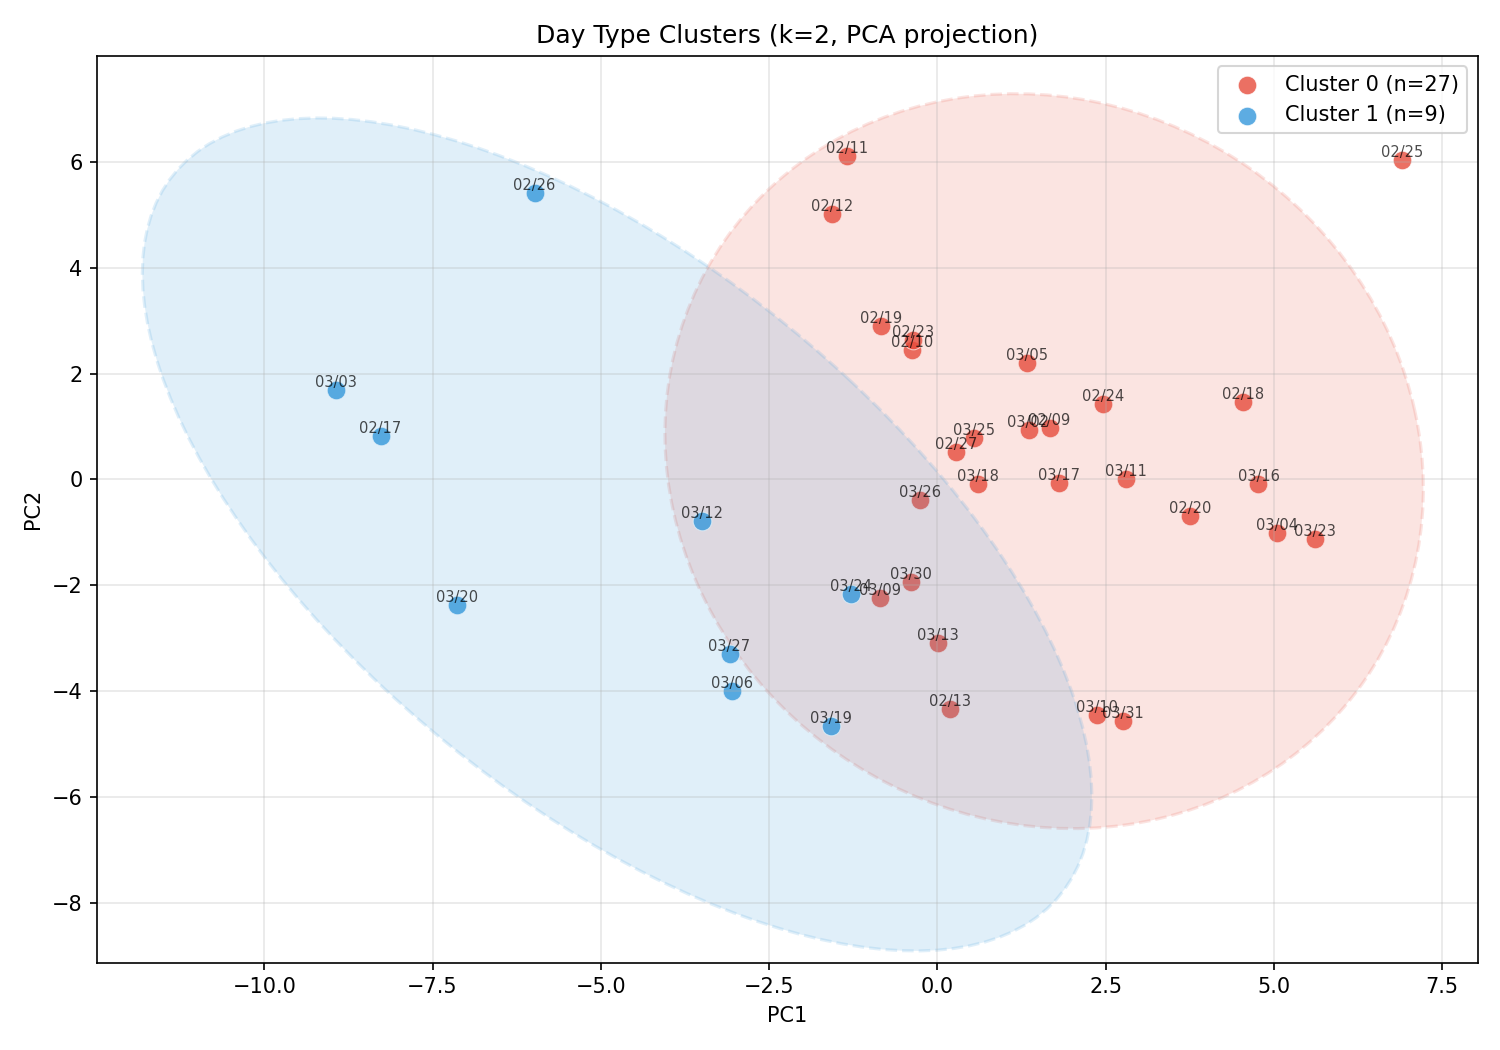
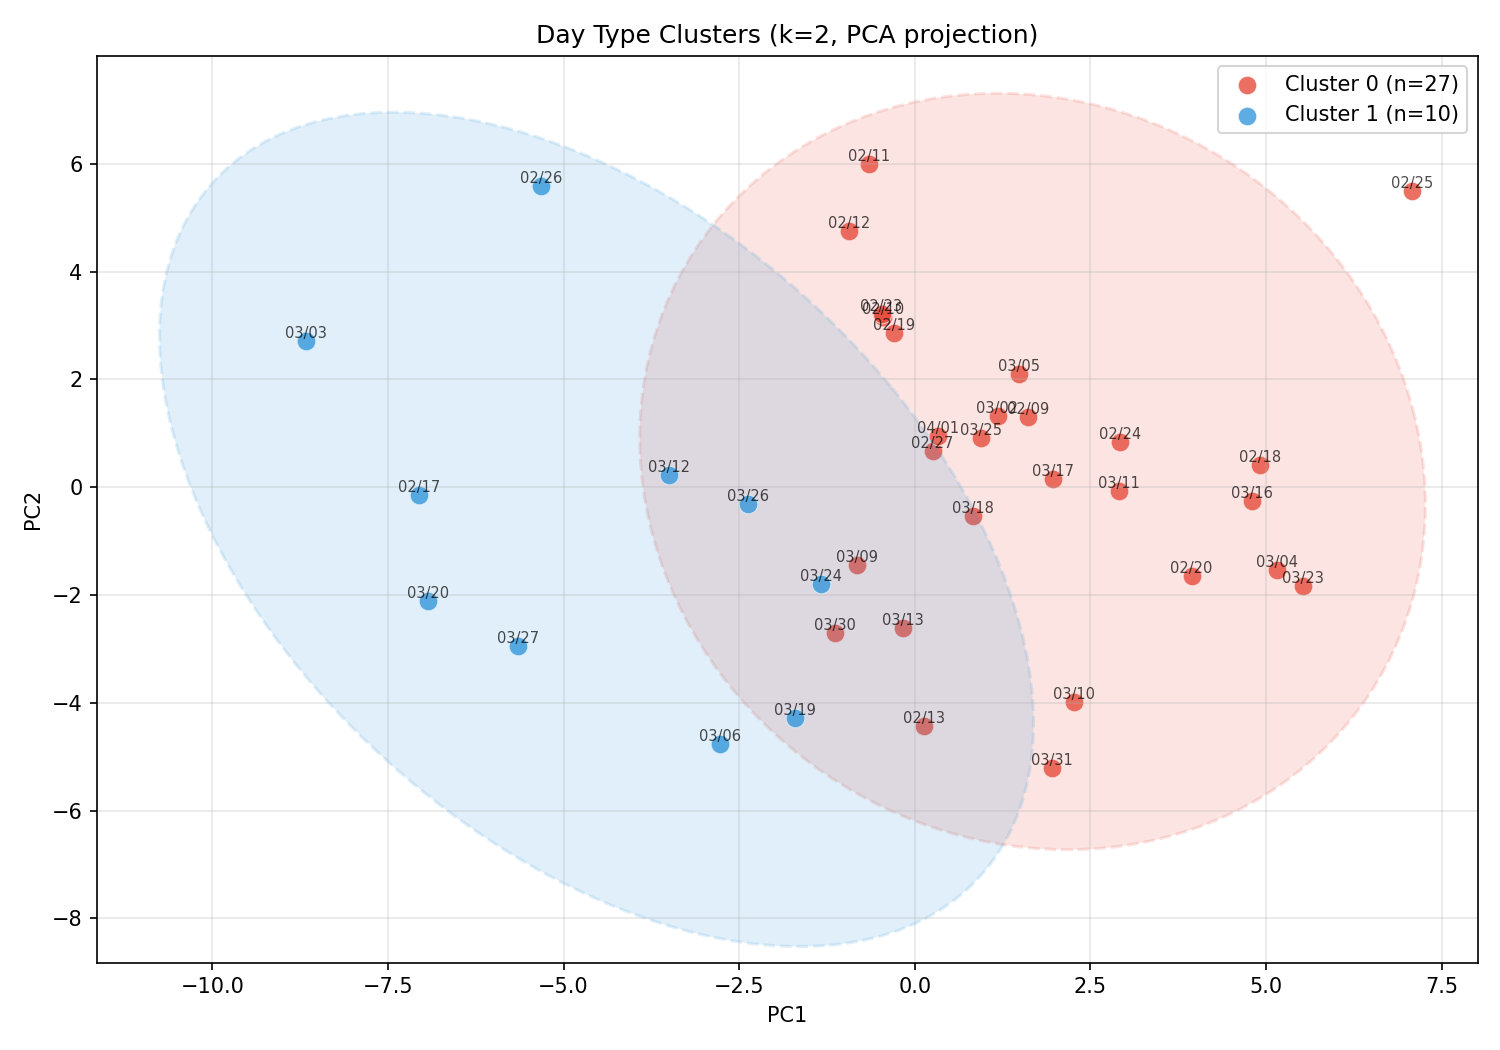
chore: regenerate ML plots and experiments after ETF tide data restore
Backfilled spy_etf_tide, qqq_etf_tide, and zero_dte_index flow data
for 2026-03-25 through 2026-03-31, then rebuilt training_features
via build-features?backfill=true. Feature completeness restored from
0.78 to 0.99 for all affected dates.

Re-ran full pipeline (make all + make early):
- EDA: SPY/QQQ ETF Tide accuracy up to 60% (was 56%), zero_dte_ncp_t1
  now appears in top range predictors
- Clustering: stability improved from 83% to 95%, permutation p from
  0.180 to 0.120
- Phase 2 early: 30 usable days (was 25), 10 walk-forward predictions
  (was 5). LogReg/RF/NB now achieve PCS F1=0.40 while XGBoost gets 0.00
- 5 plots regenerated with fuller dataset

diff --git a/ml/PHASE-2-STRUCTURE-CLASSIFICATION.md b/ml/PHASE-2-STRUCTURE-CLASSIFICATION.md
@@ -24,16 +24,16 @@ This is a **pre-analysis prior**, not a trading signal. It tells you "historical
 
 ### What we have
 
-| Metric                                 | Count                                 | Notes                                     |
-| -------------------------------------- | ------------------------------------- | ----------------------------------------- |
-| Days with features + labels + outcomes | 34                                    | Minimum for Phase 2 is 60-80              |
-| Days with completeness >= 80%          | 25                                    | Used for walk-forward validation          |
-| CCS labels                             | 19 (17 correct, 2 wrong)              | 56% of labels — majority class            |
-| PCS labels                             | 11 (11 correct, 0 wrong)              | 32% of labels — perfect so far            |
-| IC labels                              | 4 (3 correct, 1 wrong)                | 12% of labels — sparse                    |
-| SIT OUT labels                         | 0                                     | Not yet observed                          |
-| Feature completeness (labeled days)    | 95-98% for recent, 54-74% for oldest  | Older days missing ETF tide, 0DTE sources |
-| Periscope charm labels                 | 4 days                                | Too few for charm divergence feature      |
+| Metric                                 | Count                                | Notes                                     |
+| -------------------------------------- | ------------------------------------ | ----------------------------------------- |
+| Days with features + labels + outcomes | 34                                   | Minimum for Phase 2 is 60-80              |
+| Days with completeness >= 80%          | 25                                   | Used for walk-forward validation          |
+| CCS labels                             | 19 (17 correct, 2 wrong)             | 56% of labels — majority class            |
+| PCS labels                             | 11 (11 correct, 0 wrong)             | 32% of labels — perfect so far            |
+| IC labels                              | 4 (3 correct, 1 wrong)               | 12% of labels — sparse                    |
+| SIT OUT labels                         | 0                                    | Not yet observed                          |
+| Feature completeness (labeled days)    | 95-98% for recent, 54-74% for oldest | Older days missing ETF tide, 0DTE sources |
+| Periscope charm labels                 | 4 days                               | Too few for charm divergence feature      |
 
 ### Class imbalance problem
 
@@ -93,13 +93,13 @@ Currently `is_event_day` is binary. Enrich with:
 
 The pipeline runs 5 models through walk-forward validation and prints a comparison table. This determines whether XGBoost actually outperforms simpler baselines at the current sample size.
 
-| Model                        | Type            | Key settings                               | NaN handling       |
-| ---------------------------- | --------------- | ------------------------------------------ | ------------------ |
-| **XGBoost**                  | Gradient boost  | depth=3, 50 trees, L1+L2 regularization    | Native             |
-| **Logistic Regression (L2)** | Linear          | C=1.0, StandardScaler, lbfgs solver        | Median imputation  |
-| **Random Forest (15)**       | Ensemble trees  | 15 trees, depth=3                          | Median imputation  |
-| **Naive Bayes**              | Probabilistic   | Gaussian                                   | Median imputation  |
-| **Decision Tree (d=2)**      | Single tree     | depth=2 (decision stump)                   | Median imputation  |
+| Model                        | Type           | Key settings                            | NaN handling      |
+| ---------------------------- | -------------- | --------------------------------------- | ----------------- |
+| **XGBoost**                  | Gradient boost | depth=3, 50 trees, L1+L2 regularization | Native            |
+| **Logistic Regression (L2)** | Linear         | C=1.0, StandardScaler, lbfgs solver     | Median imputation |
+| **Random Forest (15)**       | Ensemble trees | 15 trees, depth=3                       | Median imputation |
+| **Naive Bayes**              | Probabilistic  | Gaussian                                | Median imputation |
+| **Decision Tree (d=2)**      | Single tree    | depth=2 (decision stump)                | Median imputation |
 
 sklearn models are wrapped in `Pipeline(SimpleImputer → [StandardScaler →] Model)` since they can't handle NaN natively.
 

diff --git a/ml/ROADMAP.md b/ml/ROADMAP.md
@@ -94,16 +94,16 @@ This document outlines planned ML applications as sufficient labeled data is acc
 
 ## Implementation Timeline (Revised)
 
-| Phase         | Model                          | Prerequisite                     | Status                       | Est. Data Ready |
-| ------------- | ------------------------------ | -------------------------------- | ---------------------------- | --------------- |
-| **Phase 0**   | Data Infrastructure            | Existing pipeline                | **Complete**                 | Done            |
-| **Phase 1**   | Day Type Clustering            | Phase 0 + 30 days features       | **Complete** (re-run at 50d) | Done            |
-| **Phase 1.5** | Exploratory Data Analysis      | Phase 0 + outcomes               | **Complete**                 | Done            |
-| **Phase 2**   | Structure Classification       | 60-80 labeled trading days       | Early experiment (25/60 days)| May 2026        |
-| **Phase 3**   | Charm Divergence Predictor     | 50+ days with Periscope data     | Accumulating (4 days)        | TBD             |
-| **Phase 4**   | Intraday Range Regression      | 100+ days API-enriched data      | Accumulating                 | June 2026       |
-| **Phase 5**   | Optimal Exit Timing            | 100+ days with timestamped exits | Blocked (paper trading)      | TBD             |
-| **Phase 6**   | Flow-Price Divergence Detector | 150+ labeled days                | Accumulating                 | Aug 2026        |
+| Phase         | Model                          | Prerequisite                     | Status                        | Est. Data Ready |
+| ------------- | ------------------------------ | -------------------------------- | ----------------------------- | --------------- |
+| **Phase 0**   | Data Infrastructure            | Existing pipeline                | **Complete**                  | Done            |
+| **Phase 1**   | Day Type Clustering            | Phase 0 + 30 days features       | **Complete** (re-run at 50d)  | Done            |
+| **Phase 1.5** | Exploratory Data Analysis      | Phase 0 + outcomes               | **Complete**                  | Done            |
+| **Phase 2**   | Structure Classification       | 60-80 labeled trading days       | Early experiment (25/60 days) | May 2026        |
+| **Phase 3**   | Charm Divergence Predictor     | 50+ days with Periscope data     | Accumulating (4 days)         | TBD             |
+| **Phase 4**   | Intraday Range Regression      | 100+ days API-enriched data      | Accumulating                  | June 2026       |
+| **Phase 5**   | Optimal Exit Timing            | 100+ days with timestamped exits | Blocked (paper trading)       | TBD             |
+| **Phase 6**   | Flow-Price Divergence Detector | 150+ labeled days                | Accumulating                  | Aug 2026        |
 
 ### Why this order changed
 

diff --git a/ml/experiments/README.md b/ml/experiments/README.md
@@ -26,7 +26,7 @@ Example: `phase2_early_2026-03-31_v2.json`
       "PUT CREDIT SPREAD": 7,
       "IRON CONDOR": 4
     },
-    "feature_completeness_threshold": 0.80,
+    "feature_completeness_threshold": 0.8,
     "date_range": ["2026-02-09", "2026-03-31"]
   },
   "xgboost_params": {
@@ -41,7 +41,7 @@ Example: `phase2_early_2026-03-31_v2.json`
     "reg_lambda": 2.0
   },
   "metrics": {
-    "accuracy": 0.80,
+    "accuracy": 0.8,
     "log_loss": 0.7023,
     "per_class_f1": {
       "CALL CREDIT SPREAD": 0.889,
@@ -49,16 +49,28 @@ Example: `phase2_early_2026-03-31_v2.json`
       "IRON CONDOR": 0.0
     },
     "majority_class": "CALL CREDIT SPREAD",
-    "majority_baseline": 0.80,
-    "prev_day_baseline": 0.80,
+    "majority_baseline": 0.8,
+    "prev_day_baseline": 0.8,
     "walk_forward_folds": 5
   },
   "model_comparison": {
-    "XGBoost": { "accuracy": 0.80, "log_loss": 0.7023, "per_class_f1": {} },
-    "Logistic Reg (L2)": { "accuracy": 0.60, "log_loss": 8.5278, "per_class_f1": {} },
-    "Random Forest (15)": { "accuracy": 0.60, "log_loss": 7.7793, "per_class_f1": {} },
-    "Naive Bayes": { "accuracy": 0.60, "log_loss": 6.8889, "per_class_f1": {} },
-    "Decision Tree (d=2)": { "accuracy": 0.60, "log_loss": 7.5517, "per_class_f1": {} }
+    "XGBoost": { "accuracy": 0.8, "log_loss": 0.7023, "per_class_f1": {} },
+    "Logistic Reg (L2)": {
+      "accuracy": 0.6,
+      "log_loss": 8.5278,
+      "per_class_f1": {}
+    },
+    "Random Forest (15)": {
+      "accuracy": 0.6,
+      "log_loss": 7.7793,
+      "per_class_f1": {}
+    },
+    "Naive Bayes": { "accuracy": 0.6, "log_loss": 6.8889, "per_class_f1": {} },
+    "Decision Tree (d=2)": {
+      "accuracy": 0.6,
+      "log_loss": 7.5517,
+      "per_class_f1": {}
+    }
   },
   "best_model": "XGBoost",
   "feature_importance_top10": [
@@ -72,12 +84,12 @@ Example: `phase2_early_2026-03-31_v2.json`
 
 ## Key fields
 
-| Field | Description |
-| --- | --- |
-| `metrics` | XGBoost walk-forward metrics (primary model) |
-| `model_comparison` | All 5 models' accuracy, log loss, and per-class F1 |
-| `best_model` | Name of the highest-accuracy model |
-| `xgboost_params` | XGBoost hyperparameters (sklearn models use defaults) |
+| Field              | Description                                           |
+| ------------------ | ----------------------------------------------------- |
+| `metrics`          | XGBoost walk-forward metrics (primary model)          |
+| `model_comparison` | All 5 models' accuracy, log loss, and per-class F1    |
+| `best_model`       | Name of the highest-accuracy model                    |
+| `xgboost_params`   | XGBoost hyperparameters (sklearn models use defaults) |
 
 ## Comparing experiments across dates
 

diff --git a/ml/PRESENTING-THE-DATA.md b/ml/PRESENTING-THE-DATA.md
@@ -385,12 +385,12 @@ This answers: **"Can any model predict today's correct structure better than alw
 
 **How to interpret the results:**
 
-| Scenario | What it means | Action |
-| --- | --- | --- |
-| Best model has Lift > +5% | Model finds exploitable patterns | Consider using as a pre-analysis prior |
-| Best model ties majority (Lift ≈ 0%) | No model adds signal yet | Keep accumulating data, re-run weekly |
-| All models have Lift < 0% | Models are overfitting or features lack signal | Wait for 60+ days or revisit feature engineering |
-| A simple model (LogReg) beats XGBoost | Simpler model generalizes better at small n | Use the simpler model — it's also more interpretable |
+| Scenario                              | What it means                                  | Action                                               |
+| ------------------------------------- | ---------------------------------------------- | ---------------------------------------------------- |
+| Best model has Lift > +5%             | Model finds exploitable patterns               | Consider using as a pre-analysis prior               |
+| Best model ties majority (Lift ≈ 0%)  | No model adds signal yet                       | Keep accumulating data, re-run weekly                |
+| All models have Lift < 0%             | Models are overfitting or features lack signal | Wait for 60+ days or revisit feature engineering     |
+| A simple model (LogReg) beats XGBoost | Simpler model generalizes better at small n    | Use the simpler model — it's also more interpretable |
 
 **When to re-run:** Weekly as new labeled days accumulate. The comparison becomes meaningful at ~45 labeled days (25+ predictions) and actionable at 60+ days.
 
